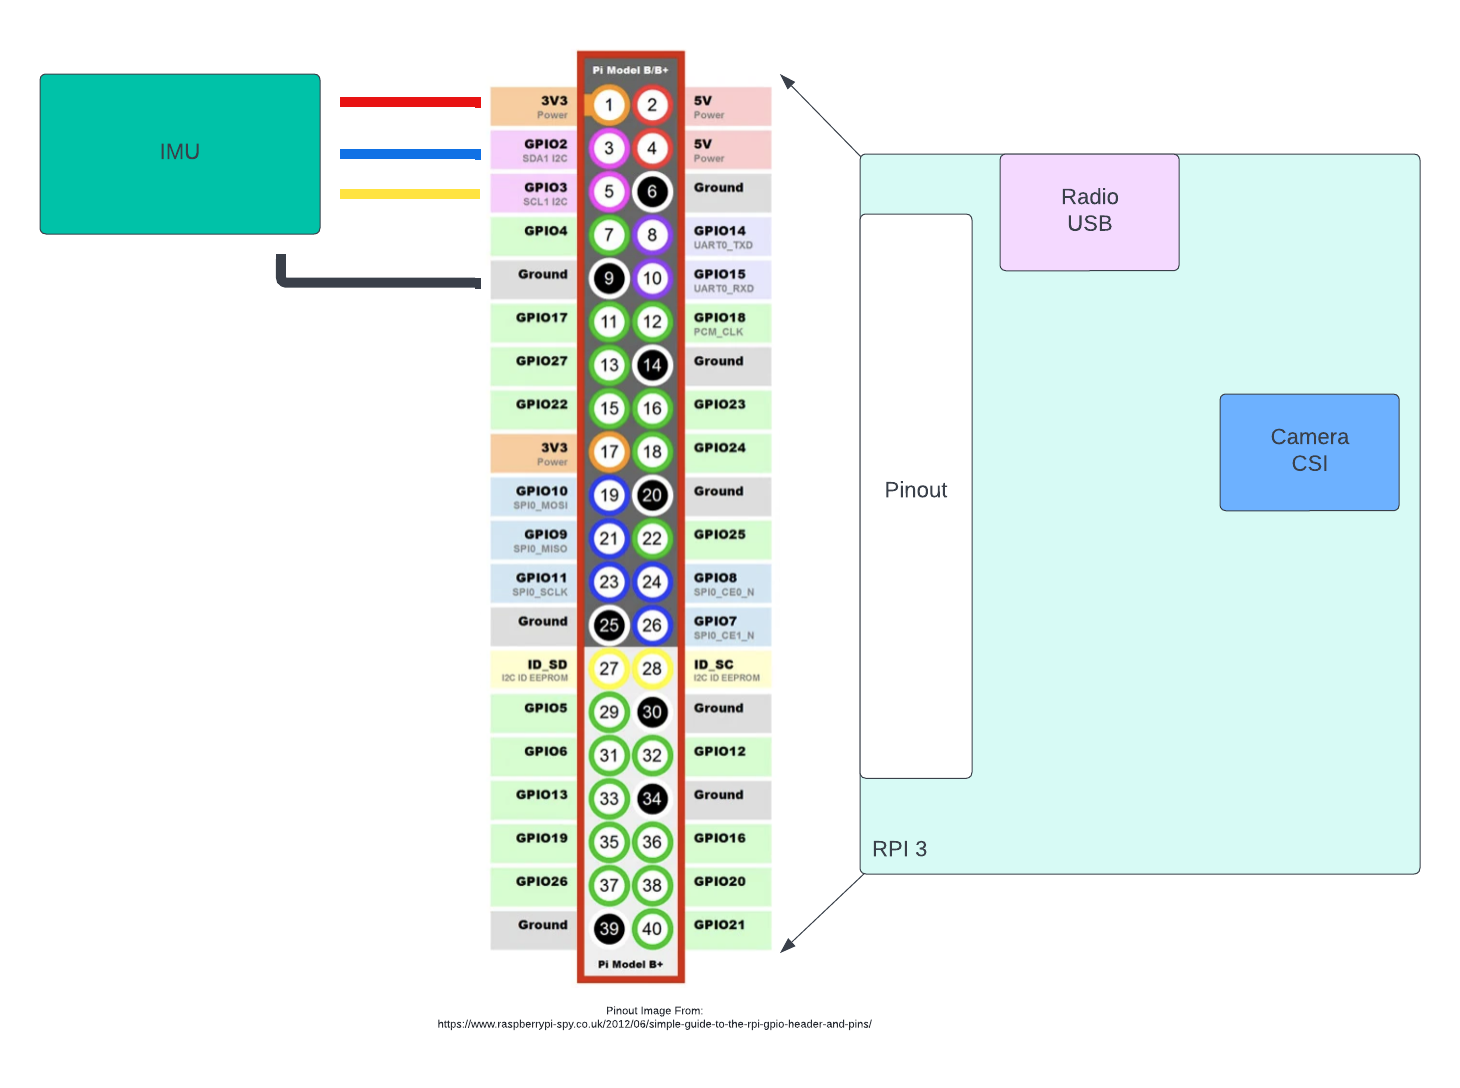
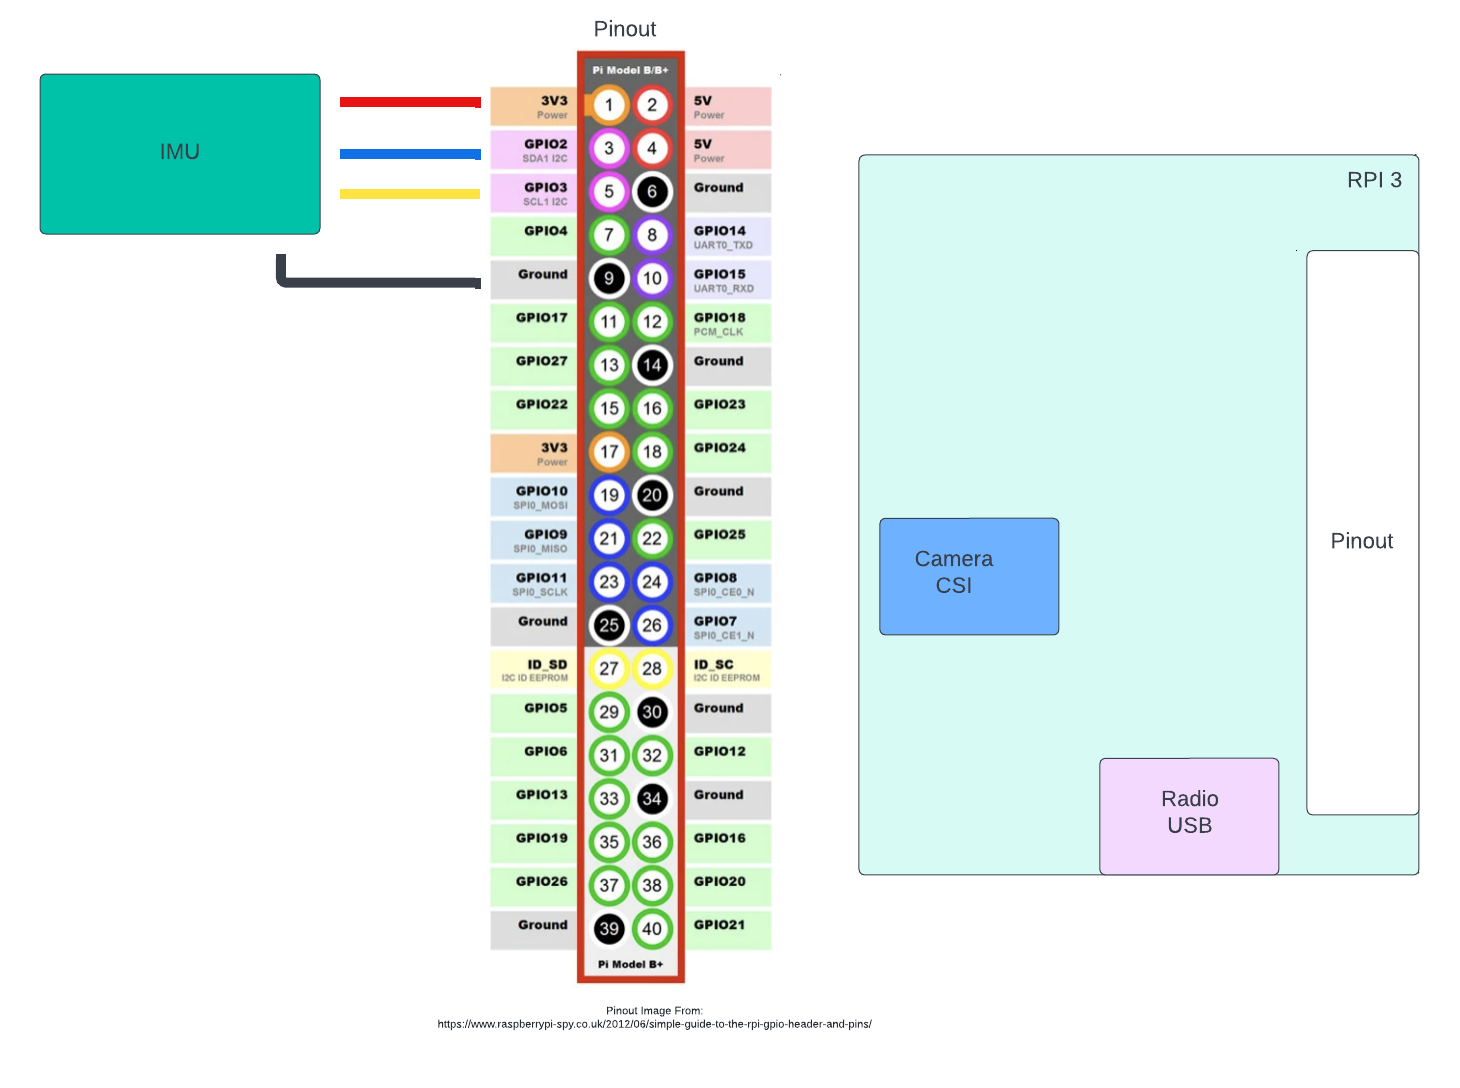
lestarch: updating wiring diagrams for both boards

diff --git a/docs/course/topology-integration.md b/docs/course/topology-integration.md
@@ -64,25 +64,27 @@ our Raspberry PI and run it.
 ### Step 1: Cross-Compile
 
 In this step we will set up a build cache specifically for building for ARM hardware. This is done using generate and
-passing in the name of the desired toolchain file. Here we pass in `aarch64`.  Then we build passing in the same
+passing in the name of the desired toolchain file. Here we pass in `aarch64-linux`.  Then we build passing in the same
 named toolchain.
+
+> Students working with the Raspberry PI 3 may use `arm-hf-linux` in place of `aarch64-linux`
 
 > Mac users must pair with a Linux user or run inside a docker shell for these steps
 
 ```bash
 cd ~/fprime-system-reference/SystemReference
-fprime-util generate aarch64
-fprime-util build aarch64
+fprime-util generate aarch64-linux
+fprime-util build aarch64-linux
 ```
 
 ### Step 2: Upload the Built Binary
 
 The next step is to upload the binary file onto the Raspberry PI.  Output products are placed in the
-`build-artifacts/<platform>` directory. In our case the binary is in `build-artifacts/aarch64/bin`. We can upload it
-using ssh.
+`build-artifacts/<platform>` directory. In our case the binary is in `build-artifacts/aarch64-linux/bin`. We can upload
+it using ssh.
 
 ```bash
-scp build-artifacts/aarch64/bin/SystemReference odroid@<hostname>:SystemReference
+scp build-artifacts/aarch64-linux/bin/SystemReference odroid@<hostname>:SystemReference
 ```
 
 **Note:** your team should have been provided the hostname and password for your hardware. 
@@ -98,7 +100,7 @@ pass in a dictionary, which was automatically built in the build step.
 **Launching the GDS**
 ```bash
 cd ~/fprime-system-reference/SystemReference
-fprime-gds -n --dictionary build-artifacts/aarch64/dict/SystemReferenceTopologyAppDictionary.xml
+fprime-gds -n --dictionary build-artifacts/aarch64-linux/dict/SystemReferenceTopologyAppDictionary.xml
 ```
 
 Next we run the binary and tell it to connect back to the running GDS. This is done from within the PI.

diff --git a/docs/course/hardware.md b/docs/course/hardware.md
@@ -1,9 +1,10 @@
 # IMU Exercise: Hardware Setup
 
-In order to complete the lab exercise we need to wire-up hardware. In this exercise we will be using the Raspberry PI 3
-and the MPU-6050 IMU. The IMU uses I2C to communicate and should be connected to the PI's I2C-1 pins.
+In order to complete the lab exercise we need to wire-up hardware. In this exercise may use the Raspberry PI 3 or the
+Odroid M1 depending on the hardware supplied to the class.  The IMU will be the MPU-6050 IMU. The IMU uses I2C to
+communicate and should be connected to the computers I2C pins as shown below
 
-## Wiring Diagram
+## Wiring Specification
 
 The IMU should be connected using the IMU wiring harness. The black connector connects to the IMU PCB and the jumper
 wires connect to the PI.  The blue wire is the I2C data line and should be connected to the SDA1 pin of the PI (pin 3).
@@ -13,7 +14,17 @@ The yellow line is the I2C clock to be connected to SCL1 on the PI (pin 5).  Red
 These connections can be seen on the following wiring diagram. **Note:** in this lab exercise we neither use the radio,
 nor the camera.  These interfaces can safely be ignored for the lab exercise.
 
-![Wiring Diagram](../img/wiring-diagram.png)
+### Odroid M1
+
+The Odroid M1 will use the I2C-0 bus and is shown in the wiring diagram below.
+
+![Wiring Diagram Odroid M1](../img/wiring-diagram-m1.png)
+
+### RPI Wiring
+
+The RPI will use the I2C-1 bus and is shown in the wiring diagram below.
+
+![Wiring Diagram RPI](../img/wiring-diagram.png)
 
 ## Additional Resources
 - [MPU-6050 IMU](https://learn.adafruit.com/mpu6050-6-dof-accelerometer-and-gyro)
